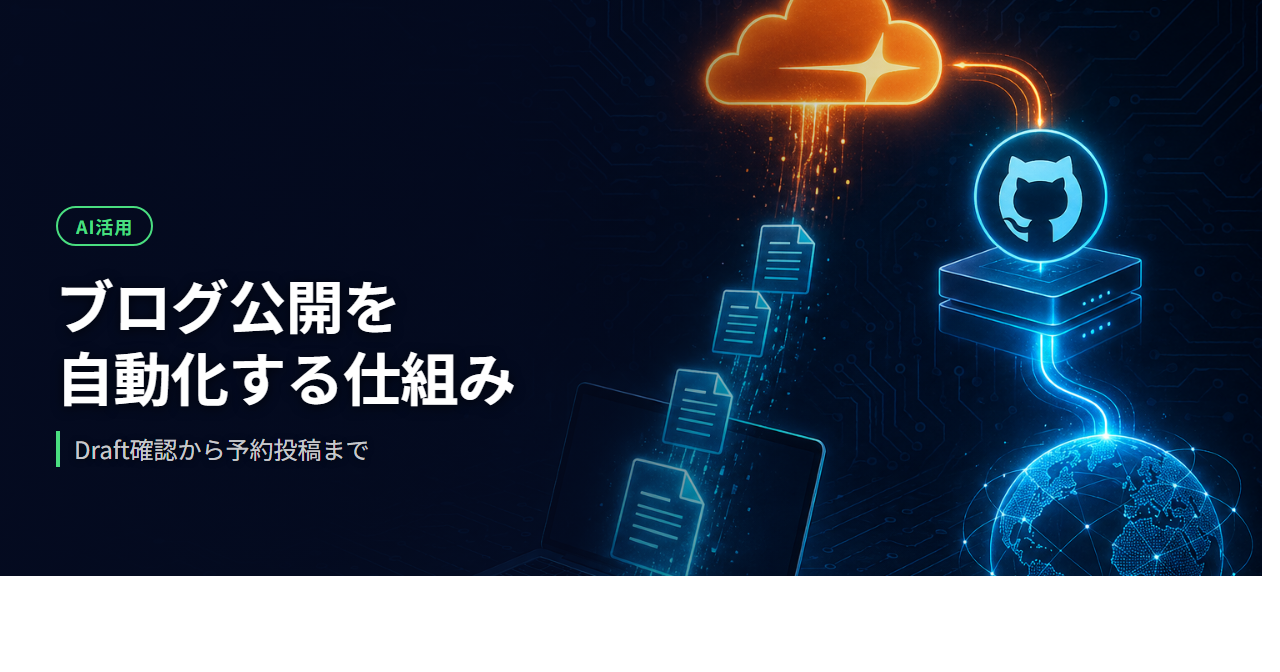
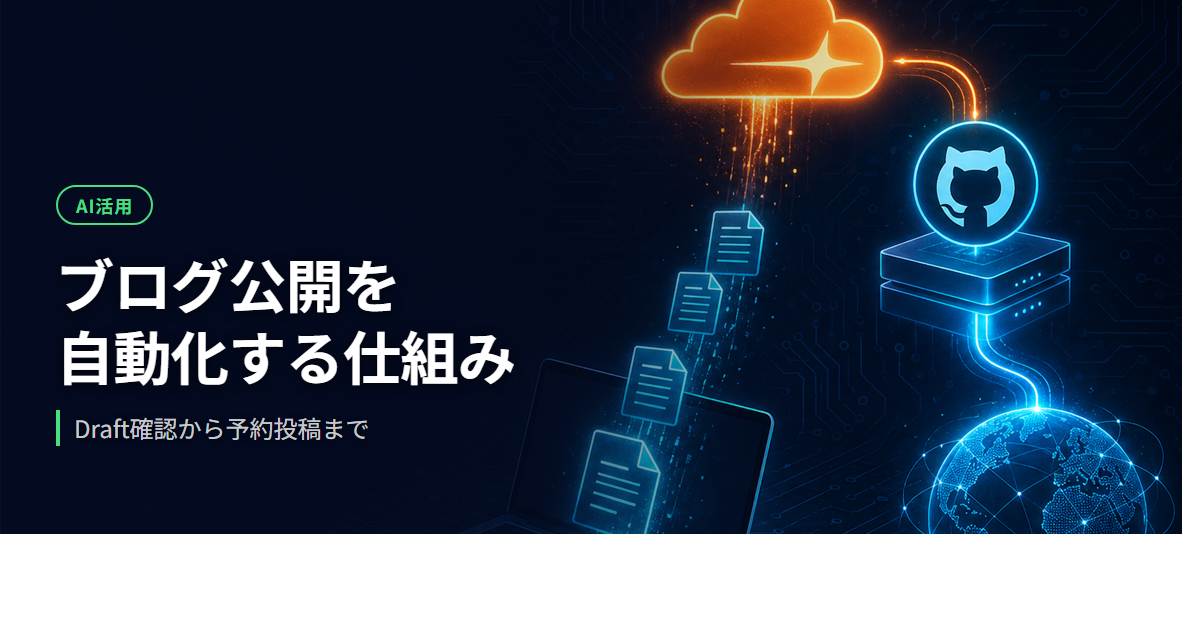
fix thumbnail size to 1200x630 (OGP standard)

Changed region(s): [[0.0308, 0.2714, 0.4317, 0.6937], [0.0, 0.7238, 0.9867, 0.8746], [0.8017, 0.7238, 0.8325, 0.754]]

diff --git a/tmp-diagram/thumb-cloudflare-blog-publish-flow.html b/tmp-diagram/thumb-cloudflare-blog-publish-flow.html
@@ -5,8 +5,8 @@
 <style>
   * { box-sizing: border-box; margin: 0; padding: 0; }
   body {
-    width: 1280px;
-    height: 672px;
+    width: 1200px;
+    height: 630px;
     overflow: hidden;
     font-family: "Hiragino Kaku Gothic Pro", "Noto Sans JP", "Yu Gothic", sans-serif;
     position: relative;
